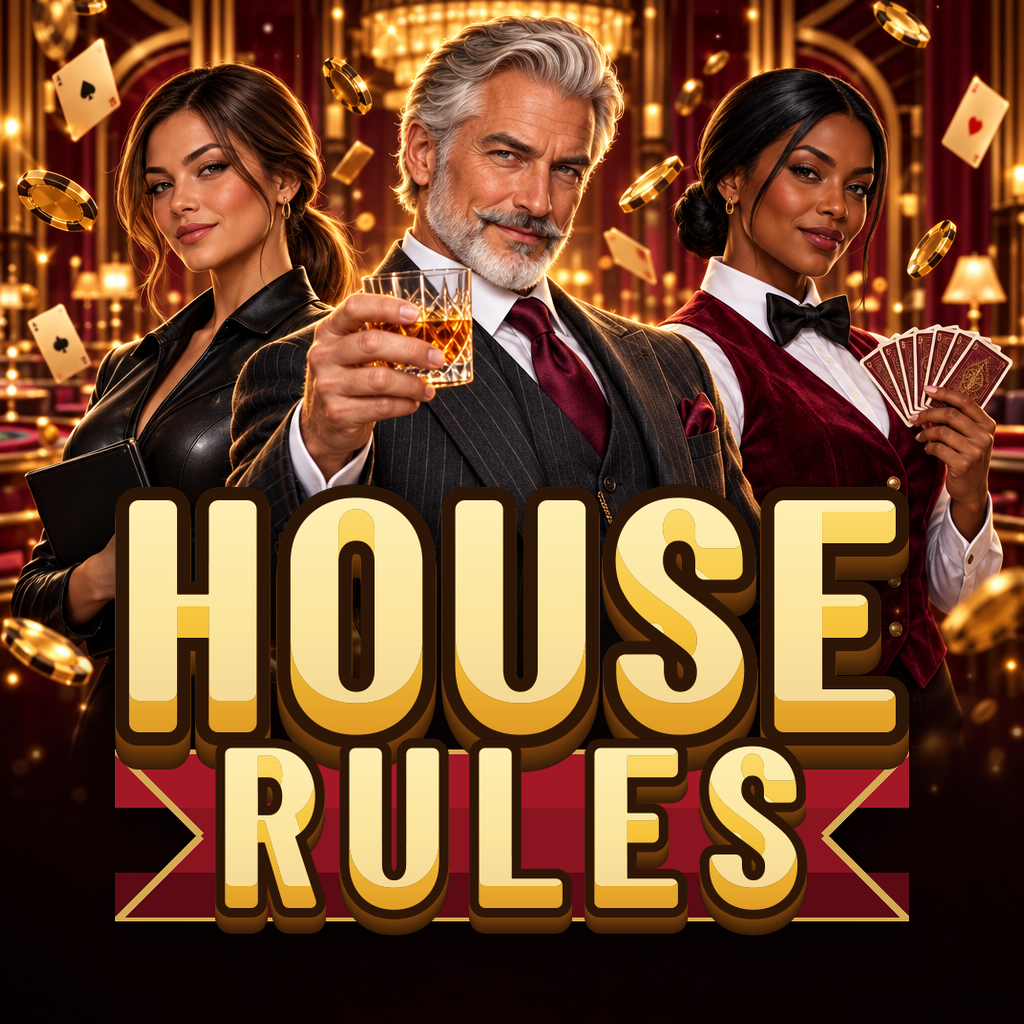
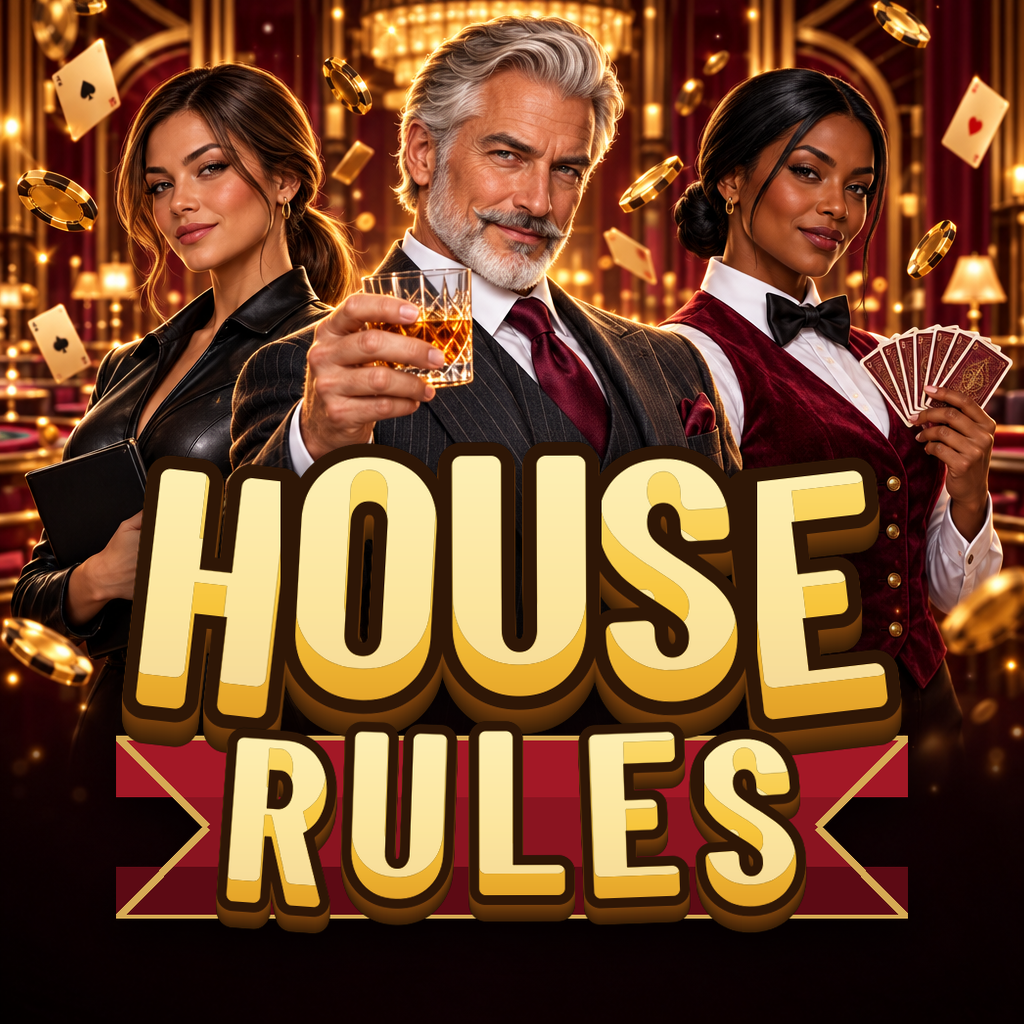
art: add the House Rules branding set
Two deliverables, both in `assets/branding/`.

**The badge.** An isolated 3D title lockup with real alpha: chunky extruded
lettering with a gold face running into amber, glossy inner highlights, a thick
maroon keyline, a gold crown crest with a burgundy spade pip, a ribbon carrying
RULES and a HIGH ROLLER EDITION sub-banner. It was generated on solid black and
keyed by flood-filling the near-black that touches the border, so the dark
keyline and the dark interiors of the letters survive the key instead of being
punched out with the background.

**The hero banner.** A 16:9 cover with the badge centred, the Manager behind
and above it in a power pose, and the Secretary and the Blackjack dealer
flanking and angled inward, over floating coins and cards, volumetric light and
a casino hall falling away into depth of field.

`tools/art/build_key_art.py` keeps the drawn alternative: it renders the same
lockup from the shipped font at any size, arced over a shallow circle rather
than set flat, and composes the menu plate and the README banner. Generated
lettering is checked by eye before it ships, because a malformed letter is not
something the pipeline can catch.

Changed region(s): [[0.0938, 0.4062, 0.9062, 0.9375]]

diff --git a/tools/art/build_key_art.py b/tools/art/build_key_art.py
@@ -14,6 +14,7 @@ side under it and a drop shadow, over a burgundy ribbon.
 
 from __future__ import annotations
 
+import math
 from pathlib import Path
 
 from PIL import Image, ImageDraw, ImageFilter, ImageFont
@@ -51,8 +52,15 @@ def _gradient(size: tuple[int, int]) -> Image.Image:
     return ramp.resize(size, Image.BILINEAR)
 
 
-def word(text: str, size: int, track: int = 18, keyline: int = 0, depth: int = 0) -> Image.Image:
-    """One word of the lockup, on its own transparent layer."""
+def word(
+    text: str, size: int, track: int = 18, keyline: int = 0, depth: int = 0, arc: float = 0.0
+) -> Image.Image:
+    """One word of the lockup, on its own transparent layer.
+
+    `arc` bends the word over a shallow circle, in degrees across the whole word:
+    each letter is drawn on its own and turned to sit square on the curve, which
+    is what stops a slot-game logo reading as a flat line of type. 0 is straight.
+    """
     font = ImageFont.truetype(str(FONT), size)
     keyline = keyline or max(10, size // 16)
     depth = depth or max(12, size // 13)
@@ -61,15 +69,39 @@ def word(text: str, size: int, track: int = 18, keyline: int = 0, depth: int = 0
     total = sum(widths) + track * (len(text) - 1)
     box = font.getbbox(text)
     pad = keyline * 2 + depth + 30
-    canvas = (int(total + pad * 2), int((box[3] - box[1]) + pad * 2))
-    origin = (pad, pad - box[1])
+    rise = 0.0 if arc == 0.0 else total * abs(arc) / 260.0
+    canvas = (int(total + pad * 2), int((box[3] - box[1]) + pad * 2 + rise))
+    origin = (pad, pad - box[1] + rise)
 
     def draw_run(target: ImageDraw.ImageDraw, dx: float, dy: float, fill, stroke, width: int):
-        x = origin[0] + dx
+        if arc == 0.0:
+            x = origin[0] + dx
+            for c, w in zip(text, widths):
+                target.text((x, origin[1] + dy), c, font=font, fill=fill,
+                            stroke_width=width, stroke_fill=stroke)
+                x += w + track
+            return
+        # Lay the letters along a circle whose chord is the word's width.
+        span = math.radians(arc)
+        radius = total / (2.0 * math.sin(span / 2.0))
+        run = 0.0
         for c, w in zip(text, widths):
-            target.text((x, origin[1] + dy), c, font=font, fill=fill,
-                        stroke_width=width, stroke_fill=stroke)
-            x += w + track
+            centre = run + w / 2.0
+            theta = (centre / total - 0.5) * span
+            glyph = Image.new("L", (int(w + width * 4 + 8), canvas[1]), 0)
+            ImageDraw.Draw(glyph).text(
+                (width * 2, origin[1] - rise), c, font=font, fill=255,
+                stroke_width=width, stroke_fill=255,
+            )
+            turned = glyph.rotate(-math.degrees(theta), resample=Image.BICUBIC,
+                                  center=(glyph.width / 2, glyph.height))
+            lift = radius * (1.0 - math.cos(theta))
+            target.bitmap(
+                (int(origin[0] + dx + centre - turned.width / 2),
+                 int(dy - lift)),
+                turned, fill=fill,
+            )
+            run += w + track
 
     # The silhouette, used both as the extrusion and as the mask for the face.
     silhouette = Image.new("L", canvas, 0)
@@ -116,8 +148,8 @@ def ribbon(width: int, height: int) -> Image.Image:
 
 def lockup(scale: float = 1.0) -> Image.Image:
     """HOUSE over RULES on a ribbon, as one transparent piece."""
-    house = word("HOUSE", round(330 * scale), track=round(16 * scale))
-    rules = word("RULES", round(228 * scale), track=round(26 * scale))
+    house = word("HOUSE", round(330 * scale), track=round(16 * scale), arc=-16.0)
+    rules = word("RULES", round(228 * scale), track=round(26 * scale), arc=-10.0)
     # The band is cut to the lower word so the word sits inside it rather than
     # hanging off both ends of it.
     band = ribbon(round(rules.width * 1.34), round(rules.height * 0.86))
@@ -139,6 +171,40 @@ def lockup(scale: float = 1.0) -> Image.Image:
     return shadow.crop(shadow.getbbox())
 
 
+def github_banner() -> Image.Image:
+    """The README mark: the three of them and the logo, and nothing behind."""
+    trio = Image.open(SOURCE / "trio_cutout.png").convert("RGBA")
+    trio = trio.crop(trio.getbbox())
+    mark = lockup(1.0)
+    width = round(trio.width * 1.06)
+    logo = mark.resize((width, round(mark.height * width / mark.width)), Image.LANCZOS)
+    overlap = round(logo.height * 0.42)
+    canvas = Image.new("RGBA", (width, trio.height + logo.height - overlap), (0, 0, 0, 0))
+    canvas.alpha_composite(trio, ((width - trio.width) // 2, 0))
+    canvas.alpha_composite(logo, (0, trio.height - overlap))
+    return canvas.crop(canvas.getbbox())
+
+
+def menu_background() -> Image.Image:
+    """The menu plate: the room, the three of them held to the right, logo left.
+
+    The left of the frame is deliberately left plain so the menu's own buttons
+    have somewhere to sit without fighting the art.
+    """
+    room = Image.open(SOURCE / "menu_room_a7708d66.png").convert("RGBA").resize((3840, 2160), Image.LANCZOS)
+    trio = Image.open(SOURCE / "trio_cutout.png").convert("RGBA")
+    trio = trio.crop(trio.getbbox())
+    height = round(room.height * 0.92)
+    trio = trio.resize((round(trio.width * height / trio.height), height), Image.LANCZOS)
+    room.alpha_composite(trio, (room.width - trio.width + round(trio.width * 0.06),
+                                room.height - trio.height))
+    mark = lockup(1.0)
+    wanted = round(room.width * 0.42)
+    logo = mark.resize((wanted, round(mark.height * wanted / mark.width)), Image.LANCZOS)
+    room.alpha_composite(logo, (round(room.width * 0.05), round(room.height * 0.08)))
+    return room
+
+
 def main() -> int:
     OUT.mkdir(parents=True, exist_ok=True)
     mark = lockup(1.0)
@@ -158,6 +224,15 @@ def main() -> int:
                                int(art.height * 0.97) - logo.height))
     art.convert("RGB").save(OUT / "house_rules_key_art.png", optimize=True)
     print("house_rules_key_art.png", art.size)
+
+    if (SOURCE / "trio_cutout.png").exists():
+        banner = github_banner()
+        banner.save(OUT / "house_rules_banner.png", optimize=True)
+        print("house_rules_banner.png", banner.size)
+        if (SOURCE / "menu_room_a7708d66.png").exists():
+            menu = menu_background()
+            menu.convert("RGB").save(OUT / "house_rules_menu.png", optimize=True)
+            print("house_rules_menu.png", menu.size)
     return 0
 
 
